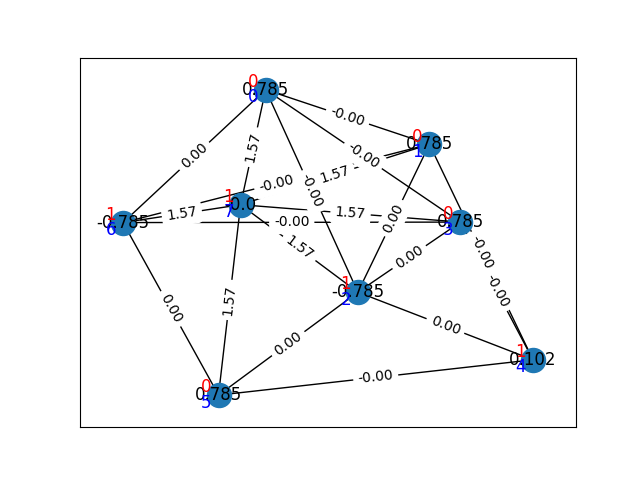
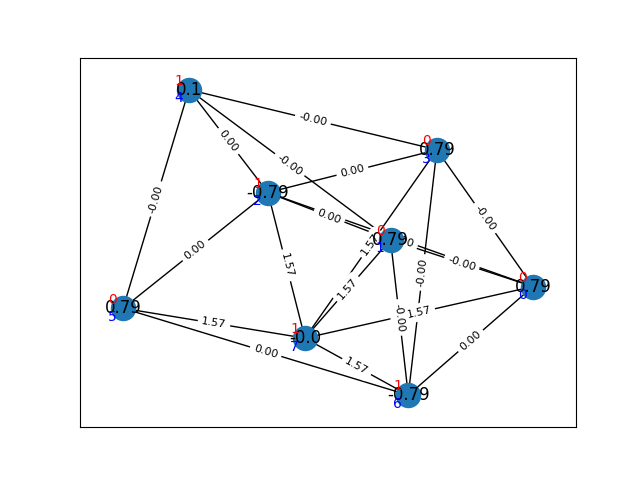
modified:   standard_QAOA.py

Changed region(s): [[0.1562, 0.1562, 0.875, 0.875], [0.2812, 0.5, 0.3125, 0.5312]]

diff --git a/standard_QAOA.py b/standard_QAOA.py
@@ -10,16 +10,17 @@ seed = 0
 p = 0.4
 graph = generate_graphs.generate_connected_graph(no_vertices, p, seed)[0]
 # graph = generate_graphs.generate_regular_graph(no_vertices,3,seed)[0]
+# graph = generate_graphs.generate_graph_type(no_vertices, )
 print(f'layers:{depth} standard-QAOA')
 
-pauli_ops_dict = build_operators.build_all_paulis(no_vertices)
-gamma_0 = 0.1
-beta_0 = 0.0
+gamma_0 = 0.2
+beta_0 = 0.1
 
 max_cut_solution = useful_methods.find_optimal_cut(graph)
 max_cut_value = max_cut_solution[1]
 max_ham_eigenvalue = max_cut_solution[2]
 
+pauli_ops_dict = build_operators.build_my_paulis(no_vertices)
 hamiltonian = build_operators.cut_hamiltonian(graph)
 #! 初始化完成
 
@@ -29,7 +30,6 @@ def obj_func(parameter_values):
     return expectation_value * (-1.0)
 
 initial_parameter_guesses = [gamma_0] * (depth) + [beta_0] * (depth)
-# initial_parameter_guesses = [gamma_0] * (depth) + [beta_0] * (depth)
 result = minimize(obj_func, initial_parameter_guesses, method="BFGS")
 
 parameter_list = list(result.x)
@@ -39,43 +39,7 @@ hamiltonian_expectation = (hamiltonian * dens_mat).trace().real
 ham_approx_ratio = hamiltonian_expectation / max_ham_eigenvalue
 cut_approx_ratio = (hamiltonian_expectation + max_cut_value - max_ham_eigenvalue) / max_cut_value
 
-data = {
-    'cut_approx_ratio' : cut_approx_ratio,
-    'ham_approx_ratio' : ham_approx_ratio,
-    'optimised_Hamiltonian_unitary_parameters' : parameter_list[:depth],
-    'optimised_mixer_unitary_parameters' : parameter_list[depth:],
-}
 
 print(f'cut_approx_ratio: {cut_approx_ratio}')
 print(f'gamma: {parameter_list[:depth]}')
 print(f'beta: {parameter_list[depth:]}')
-
-
-#! fix gammas to update multi-angle betas
-# gammas = parameter_list[:-1]
-# # optimize beta again
-# def obj_func2(parameter_values):
-#     parameter_values = gammas + parameter_values.tolist()
-#     dens_mat = build_operators.build_MA_qaoa_ansatz(graph, parameter_values, depth, pauli_ops_dict, 'SM')
-#     expectation_value = (hamiltonian * dens_mat).trace().real
-#     return expectation_value * (-1.0)
-
-# # initial_parameter_guesses = [beta_0] * (depth * no_vertices)
-# initial_parameter_guesses = [beta_0] * (no_vertices)
-# result = minimize(obj_func2, initial_parameter_guesses, method="BFGS")
-
-# parameter_list = list(result.x)
-# parameter_list = gammas + parameter_list
-
-# dens_mat = build_operators.build_MA_qaoa_ansatz(graph, parameter_list, depth, pauli_ops_dict, 'SM')
-# hamiltonian_expectation = (hamiltonian * dens_mat).trace().real
-# ham_approx_ratio = hamiltonian_expectation / max_ham_eigenvalue
-# cut_approx_ratio = (hamiltonian_expectation + max_cut_value - max_ham_eigenvalue) / max_cut_value
-
-# print('-------------------------------')
-# print(f'cut_approx_ratio: {cut_approx_ratio}')
-# for layer in range(depth):
-#     print('-------------------------------------------------')
-#     print(f'layer {layer + 1:}')
-#     print(f'gamma: {parameter_list[layer]}')
-#     print(f'beta: {[round(num, 4) for num in parameter_list[depth + layer * no_vertices: depth + (layer + 1) * no_vertices]]}')

diff --git a/MA_QAOA_All.py b/MA_QAOA_All.py
@@ -18,7 +18,7 @@ def MA_All(no_vertices, depth, seed, graph_type, save = True):
     graph = generate_graphs.generate_graph_type(no_vertices, graph_type, seed)[0]
 
     no_edges = graph.number_of_edges()
-    pauli_ops_dict = build_operators.build_my_paulis(no_vertices) #改了pauli dict
+    pauli_ops_dict = build_operators.build_my_paulis(no_vertices) #!改了pauli dict
     # pauli_ops_dict = build_operators.build_all_paulis(no_vertices)
     hamiltonian = build_operators.cut_hamiltonian(graph)
 
@@ -73,13 +73,13 @@ def MA_All(no_vertices, depth, seed, graph_type, save = True):
             nx.draw_networkx_nodes(graph, pos)
             nx.draw_networkx_edges(graph, pos)
             nx.draw_networkx_edge_labels(graph, pos, my_dict, font_size=8) #每条边的gamma
-            nx.draw_networkx_labels(graph, pos, l_dict) #每个点的beta
+            nx.draw_networkx_labels(graph, pos, l_dict, font_size=10) #每个点的beta
             for i in range(no_vertices):
-                pos[i] += np.array([-0.05, 0.05]) 
-            nx.draw_networkx_labels(graph, pos, {key:value for key, value in zip(range(no_vertices), max_cut_solution[0])}, font_color= "r", font_size=10)
+                pos[i] += np.array([-0.06, 0.06]) 
+            nx.draw_networkx_labels(graph, pos, {key:value for key, value in zip(range(no_vertices), max_cut_solution[0])}, font_color= "r", alpha=0.8,font_size=10)
             for i in range(no_vertices):
-                pos[i] += np.array([0.0, -0.1]) 
-            nx.draw_networkx_labels(graph, pos, font_color="b", font_size=10)
+                pos[i] += np.array([0.0, -0.12]) 
+            nx.draw_networkx_labels(graph, pos, font_color="g", font_size=10)
 
             plt.savefig(f"./results/figures/{graph_type[1]}{graph_type[0]}/MA{no_vertices}_{graph_type[1]}{graph_type[0]}_layer{depth}_seed{seed}.png")
 

diff --git a/src_code/build_operators.py b/src_code/build_operators.py
@@ -118,7 +118,6 @@ def cut_unitary(graph, parameter, dict_paulis):
 
 def MA_cut_unitary(graph, parameter, dict_paulis):
     """
-    Returns unitary operator corresponding to exponential of cut Hamiltonian.
     """
 
     if not isinstance(graph, nx.Graph):

diff --git a/main.py b/main.py
@@ -1,6 +1,6 @@
 import MA_QAOA_All
 
-n = 6
+n = 8
 layer = 1
 seed = 0
 graph_type = ['random', 0.4]
